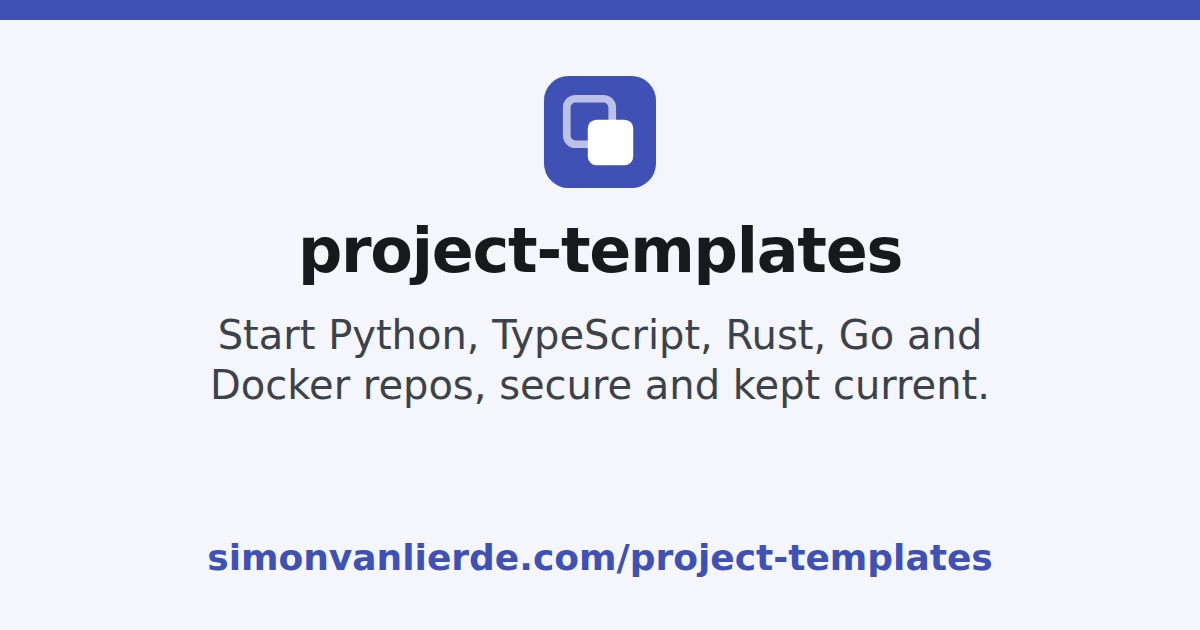
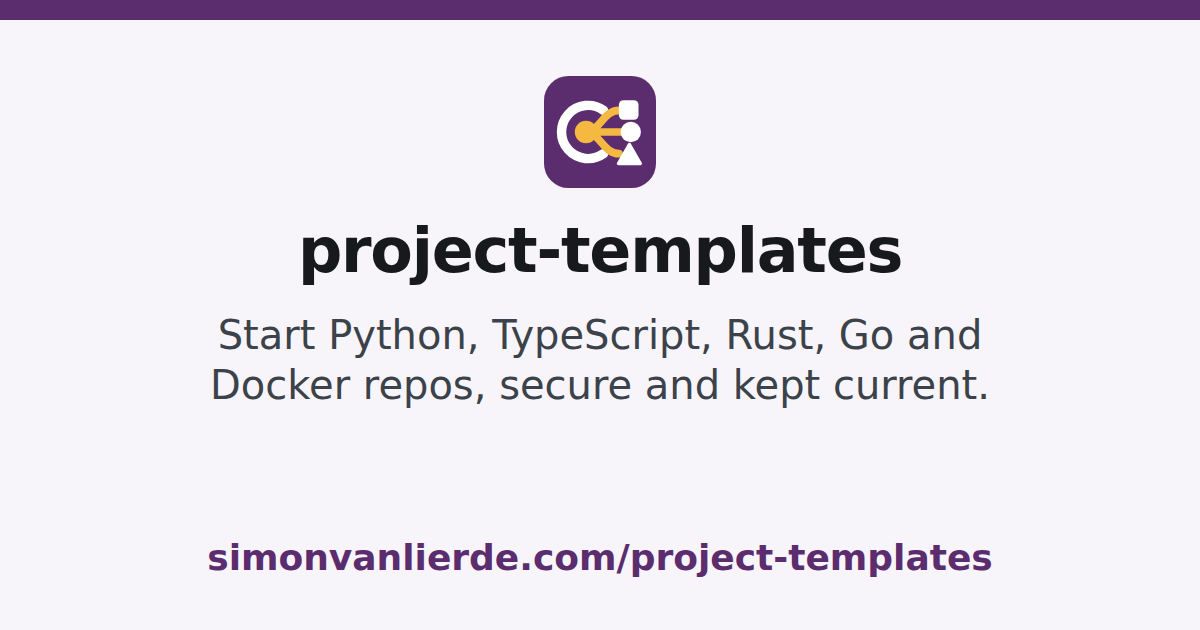
feat(docs): give the docs site a plum and gold brand and a new mark
- New mark: a Copier C around a gold seed, with paths to three different
  shapes (one start, several stacks), legible as a 16 px favicon
- Plum and gold replace Zensical's default indigo in docs/assets/brand.css,
  which stays out of the template so generated sites keep the theme colours
- The release bar is solid plum with the version in gold; plain gold on the
  theme's tinted bar failed axe color-contrast
- Re-render the social card with the new mark and colours

Changed region(s): [[0.0, 0.0, 1.0, 0.0302], [0.4317, 0.1206, 0.555, 0.3016], [0.1542, 0.8444, 0.8325, 0.9048]]

diff --git a/docs/assets/brand.css b/docs/assets/brand.css
@@ -1,0 +1,33 @@
+/* This site's plum and gold. Generated docs sites keep the theme's colours, so this file
+   is not in the template; DESIGN.md has the roles. */
+:root > * {
+  --md-primary-fg-color: #5b2d6e;
+  --md-primary-fg-color--light: #7b3f94;
+  --md-primary-fg-color--dark: #431f52;
+  --md-typeset-a-color: #7b3f94;
+  --md-accent-fg-color: #7b3f94;
+  --md-accent-fg-color--transparent: #7b3f941a;
+}
+
+/* Tint the dark surfaces toward plum, and lighten links for the same contrast. */
+:root > [data-md-color-scheme="slate"] {
+  --md-hue: 285;
+  --md-typeset-a-color: #d3a6e8;
+  --md-accent-fg-color: #e4c4f2;
+  --md-accent-fg-color--transparent: #d3a6e81a;
+}
+
+/* The release bar is the one plum band; gold marks the version. */
+.md-banner {
+  background-color: var(--md-primary-fg-color);
+  color: #fff;
+}
+
+.md-banner a,
+.md-banner .md-banner__button {
+  color: inherit;
+}
+
+.md-banner strong {
+  color: #f5b942;
+}

diff --git a/scripts/og-card.html b/scripts/og-card.html
@@ -11,10 +11,10 @@
     width: 1200px;
     height: 630px;
     overflow: hidden;
-    background: #f5f6fb;
+    background: #f8f5fa;
     color: #17191c;
     font-family: system-ui, "Segoe UI", sans-serif;
-    border-top: 20px solid #4051b5;
+    border-top: 20px solid #5b2d6e;
     display: flex;
     justify-content: center;
   }
@@ -30,7 +30,7 @@
   h1 { margin: 0; font-size: 62px; white-space: nowrap; line-height: 1; letter-spacing: -0.02em; font-weight: 750; }
   p { margin: 0; }
   .job { margin: 28px auto 0; max-width: 900px; font-size: 40px; line-height: 1.25; color: #3c424a; text-wrap: balance; }
-  .address { font-size: 36px; font-weight: 600; color: #4051b5; }
+  .address { font-size: 36px; font-weight: 600; color: #5b2d6e; }
 </style>
 <main>
   <div>

diff --git a/docs-overrides/main.html b/docs-overrides/main.html
@@ -22,6 +22,6 @@
 
 {#- `release` in zensical.toml; a render check keeps it on the newest CHANGELOG release. #}
 {% block announce %}
-  project-templates {{ config.extra.release }} is out:
+  project-templates <strong>{{ config.extra.release }}</strong> is out:
   <a href="https://github.com/simonvanlierde/project-templates/releases/tag/v{{ config.extra.release }}">what changed</a>
 {% endblock %}

diff --git a/DESIGN.md b/DESIGN.md
@@ -2,9 +2,14 @@
 name: project-templates documentation
 description: A practical reference with a short path for first-time readers
 colors:
-  primary: "#4051b5"
-  primary-muted: "#4051b51a"
+  primary: "#5b2d6e"
+  link: "#7b3f94"
+  link-dark: "#d3a6e8"
+  accent: "#f5b942"
   neutral-bg: "#ffffff"
+  card-bg: "#f8f5fa"
+  card-ink: "#17191c"
+  card-ink-muted: "#3c424a"
 ---
 
 # Design System: project-templates documentation
@@ -20,17 +25,21 @@ the reference pages.
 
 ## Colors
 
-Use the theme's indigo accent for links and active controls, with its muted accent
-for highlights, in both the light and the dark scheme. The site follows the reader's
-system setting until they pick one with the header toggle. `zensical.toml` selects the
-theme; theme styles own the remaining colors.
+Plum and gold, in place of the theme's default indigo. Plum (`primary`) fills the
+release bar and the mark's tile; links and active controls use a lighter plum (`link`),
+and `link-dark` in the dark scheme, whose surfaces lean toward plum. Gold (`accent`)
+marks only the mark's seed and paths and the version in the release bar, never body
+text. The site follows the reader's system setting until they pick one with the header
+toggle. `docs/assets/brand.css` holds these colours and stays out of the template, so
+generated docs sites keep the theme's own; theme styles own the remaining colors.
 
 ## Mark and social card
 
-The mark is `docs/assets/logo.svg`: an indigo tile with two offset squares, a copy made
-from a template. It is the header logo and the favicon. `scripts/og-card.html` is the
-1200x630 link-preview card, centred so the mark and the name survive a square crop;
-`just og-card` renders it to `docs/assets/og.png`.
+The mark is `docs/assets/logo.svg`: a white Copier C around a gold seed, with gold paths
+leaving through its opening to a square, a circle and a triangle. One start, several
+different stacks. It is the header logo and the favicon, and it stays legible at 16 px.
+`scripts/og-card.html` is the 1200x630 link-preview card, centred so the mark and the
+name survive a square crop; `just og-card` renders it to `docs/assets/og.png`.
 
 ## Typography
 
